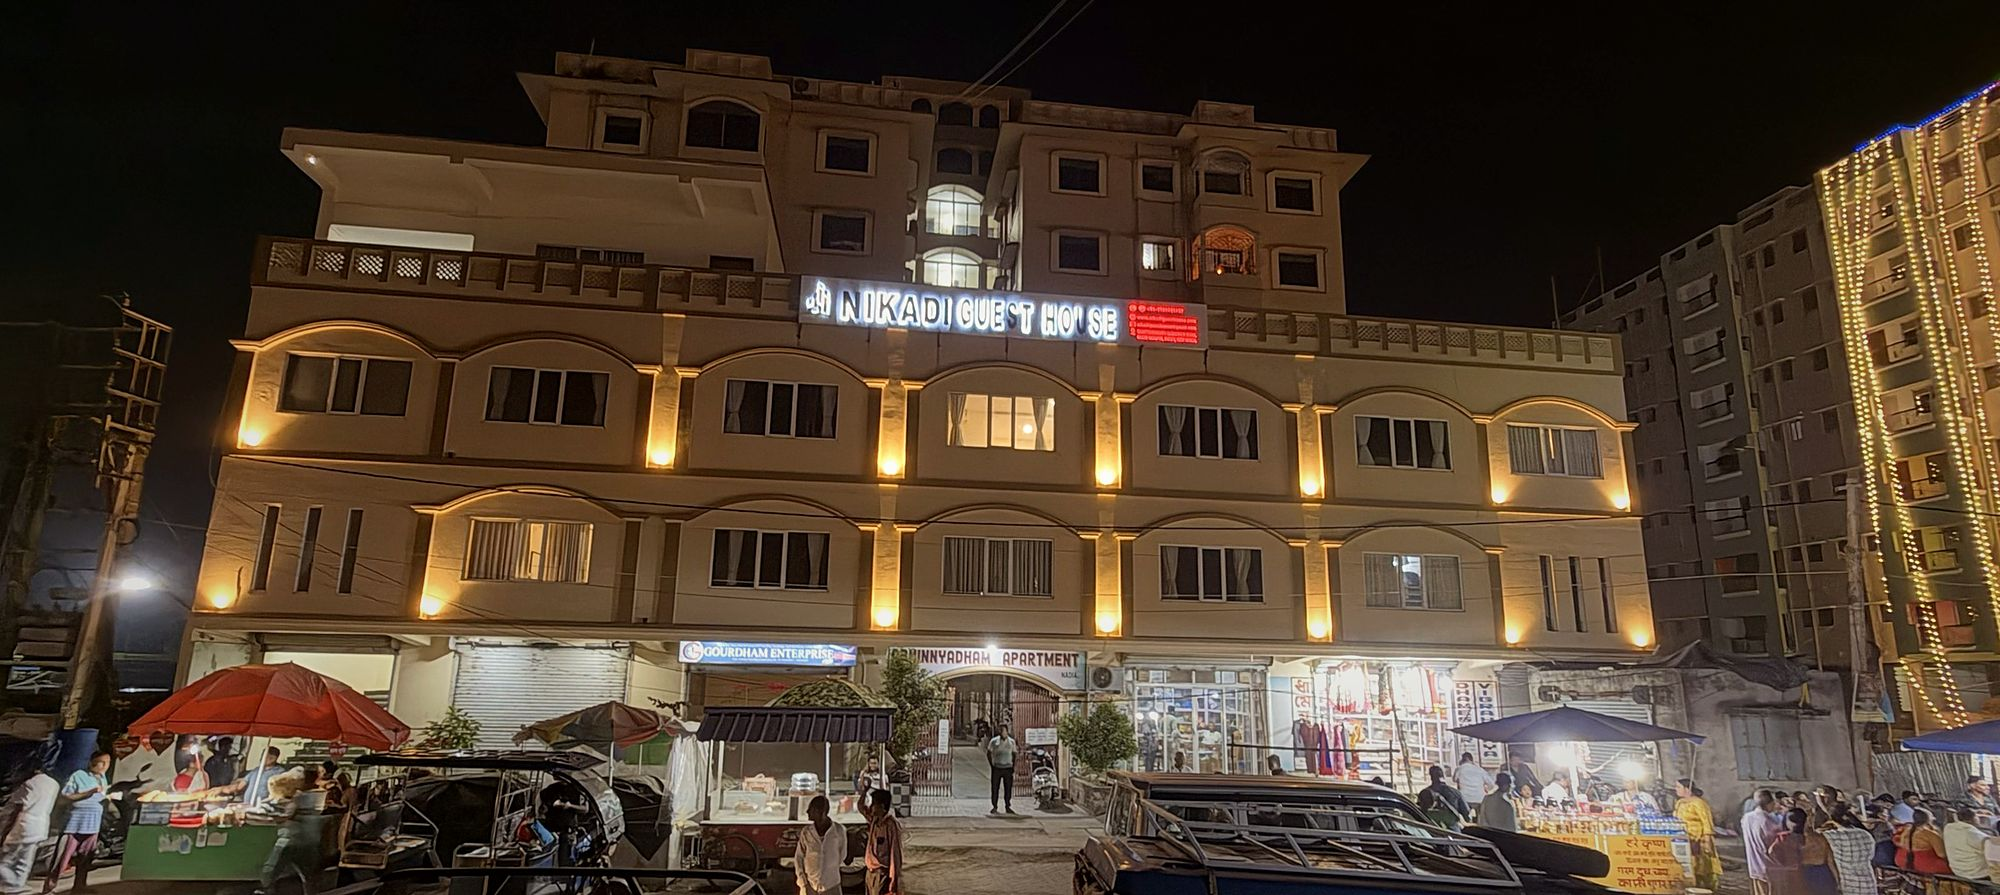
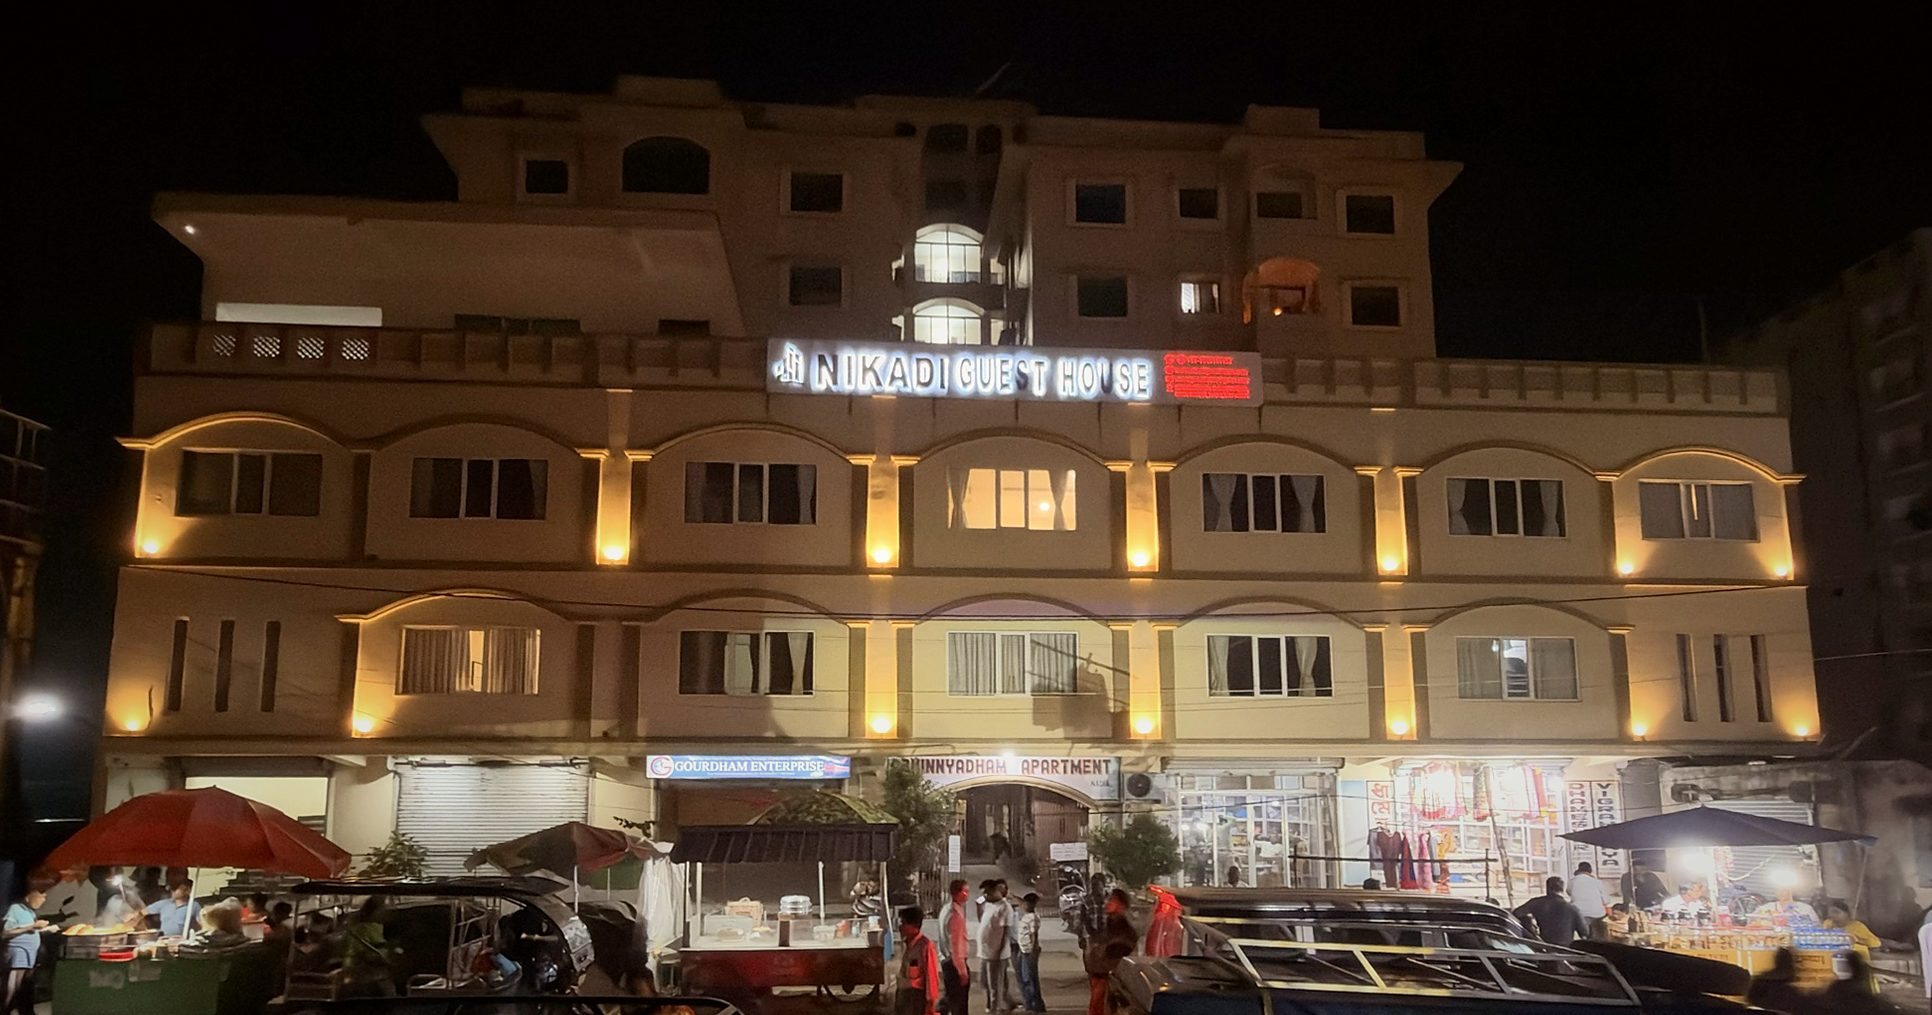
Straighten building photos, remove old room photos
- Perspective-corrected night photos taken from the middle of the road
- Hero: building beside the headline on computers, above it on phones
- Remove old room photos (new ones coming); room cards text-only for now
- Gallery: front view, staircase, Sri Chaitanya Mahaprabhu, reception
- Find us: text beside the walk-up video, WhatsApp directions button

Claude-Session: https://claude.ai/code/session_016eXoLK9YKQ6yvtgJFeLKt2

diff --git a/index.html b/index.html
@@ -71,14 +71,25 @@ nav.main a:hover{color:var(--ink)}
 
 /* hero */
 .hero{position:relative;min-height:min(86vh,760px);display:flex;align-items:flex-end;overflow:hidden}
-.hero img.bg{position:absolute;inset:0;width:100%;height:100%;max-width:100%;object-fit:cover;object-position:50% 38%}
+.hero img.bg{position:absolute;inset:0;width:100%;height:100%;max-width:100%;object-fit:cover;object-position:50% 45%}
 .hero picture{position:absolute;inset:0}
-@media (max-width:700px){.hero .wrap{padding-top:230px}.hero img.bg{object-position:50% 30%}}
+
 .hero::after{content:"";position:absolute;inset:0;background:linear-gradient(180deg,rgba(20,17,15,.55) 0%,rgba(20,17,15,.35) 35%,rgba(20,17,15,.92) 82%,var(--bg) 100%)}
 .hero .wrap{position:relative;z-index:1;width:100%;padding-block:120px 40px}
 .hero h1{font-size:clamp(2.8rem,8vw,5.6rem);font-weight:500;max-width:12ch}
 .hero h1 em{font-style:italic;color:var(--gold-hi)}
 .hero .lede{margin-top:18px;max-width:40em;font-size:1.08rem;color:var(--ink);opacity:.9}
+/* computers: building on the right, headline on a dark field to its left */
+@media (min-width:1000px){
+  .hero img.bg{left:auto;right:0;width:72%;object-position:50% 50%}
+  .hero::after{background:linear-gradient(90deg,var(--bg) 27%,rgba(20,17,15,.8) 38%,rgba(20,17,15,.2) 62%,rgba(20,17,15,.1) 100%),linear-gradient(180deg,rgba(20,17,15,.35) 0%,transparent 30%,transparent 62%,var(--bg) 100%)}
+}
+/* phones: building on top, headline below it */
+@media (max-width:700px){
+  .hero .wrap{padding-top:310px}
+  .hero img.bg{height:60%;object-position:50% 20%}
+  .hero::after{background:linear-gradient(180deg,rgba(20,17,15,.25) 0%,rgba(20,17,15,.15) 30%,rgba(20,17,15,.85) 52%,var(--bg) 60%)}
+}
 
 /* booking bar */
 .book{margin-top:36px;background:rgba(27,23,20,.94);border:1px solid var(--line);border-top:2px solid var(--gold);display:grid;grid-template-columns:repeat(4,minmax(0,1fr)) auto;gap:0}
@@ -110,7 +121,9 @@ section.alt{background:var(--band)}
 
 /* rooms */
 .room{display:grid;grid-template-columns:1.15fr 1fr;gap:0;background:var(--panel);border:1px solid var(--line)}
-.room + .room{margin-top:28px}
+.room-grid{display:grid;grid-template-columns:repeat(2,minmax(0,1fr));gap:24px}
+@media (max-width:820px){.room-grid{grid-template-columns:1fr}}
+.room-grid .room{grid-template-columns:1fr}
 .room:nth-of-type(even) .ph{order:2}
 .room .ph{position:relative;min-height:340px}
 .room .ph img{position:absolute;inset:0;width:100%;height:100%;max-width:100%;object-fit:cover}
@@ -135,13 +148,13 @@ section.alt{background:var(--band)}
 
 /* gallery */
 .gal{display:grid;grid-template-columns:repeat(3,minmax(0,1fr));grid-auto-rows:240px;gap:10px}
-.gal figure,.views figure,.findus figure{margin:0;position:relative;overflow:hidden;background:var(--panel)}
-.gal figure:first-child{grid-column:span 2;grid-row:span 2}
-.gal img,.views img,.findus img{width:100%;height:100%;max-width:100%;object-fit:cover;display:block;transition:transform .6s ease}
+.gal figure,.views figure{margin:0;position:relative;overflow:hidden;background:var(--panel)}
+.gal figure:first-child{grid-column:1/-1;grid-row:span 2}
+.gal img,.views img{width:100%;height:100%;max-width:100%;object-fit:cover;display:block;transition:transform .6s ease}
 .zoom{cursor:zoom-in}
 .zoom:hover img{transform:scale(1.03)}
-.gal figcaption,.views figcaption,.findus figcaption{position:absolute;left:0;right:0;bottom:0;padding:30px 14px 10px;font-size:.72rem;letter-spacing:.16em;text-transform:uppercase;background:linear-gradient(transparent,rgba(20,17,15,.88));pointer-events:none}
-@media (max-width:720px){.gal{grid-template-columns:repeat(2,minmax(0,1fr));grid-auto-rows:auto}.gal figure{aspect-ratio:4/5}.gal figure:first-child{grid-column:1/-1;grid-row:auto;aspect-ratio:4/3}}
+.gal figcaption,.views figcaption{position:absolute;left:0;right:0;bottom:0;padding:30px 14px 10px;font-size:.72rem;letter-spacing:.16em;text-transform:uppercase;background:linear-gradient(transparent,rgba(20,17,15,.88));pointer-events:none}
+@media (max-width:720px){.gal{grid-template-columns:repeat(2,minmax(0,1fr));grid-auto-rows:auto}.gal figure{aspect-ratio:4/5}.gal figure:first-child{grid-column:1/-1;grid-row:auto;aspect-ratio:16/9}.gal figure:last-child{grid-column:1/-1;aspect-ratio:4/3}}
 
 /* views */
 .views{display:grid;grid-template-columns:1fr 1fr;gap:40px;align-items:stretch}
@@ -153,15 +166,14 @@ section.alt{background:var(--band)}
 @media (max-width:860px){.views{grid-template-columns:1fr;gap:28px}.v-main{min-height:0;aspect-ratio:4/5}}
 
 /* find us */
-.findus{display:grid;grid-template-columns:1fr 1.3fr 1fr;gap:10px;margin-top:48px}
-.findus figure{aspect-ratio:3/4}
-.findus figure.fu-wide{aspect-ratio:auto}
-.findus video{width:100%;height:100%;max-width:100%;object-fit:cover;display:block;background:#000}
-.findus .fu-video figcaption{top:0;bottom:auto;padding:10px 14px 30px;background:linear-gradient(rgba(20,17,15,.85),transparent)}
-.fu-head{margin-top:56px;display:grid;gap:8px}
-.fu-head h3{font-size:1.9rem}
+.findus{display:grid;grid-template-columns:1fr minmax(0,380px);gap:48px;align-items:center;margin-top:64px;padding-top:48px;border-top:1px solid var(--line)}
+.fu-head{display:grid;gap:14px;justify-items:start;max-width:34em}
+.fu-head h3{font-size:clamp(1.8rem,4vw,2.4rem)}
 .fu-head p{color:var(--muted)}
-@media (max-width:860px){.findus{grid-template-columns:1fr 1fr}.findus .fu-video{order:-1;grid-column:1/-1;aspect-ratio:9/14;max-height:80vh}.findus .fu-video video{object-fit:contain}}
+.findus figure{margin:0;position:relative;overflow:hidden;background:#000;aspect-ratio:9/16;max-height:680px;width:100%}
+.findus video{width:100%;height:100%;max-width:100%;object-fit:cover;display:block;background:#000}
+.findus .fu-video figcaption{position:absolute;left:0;right:0;top:0;padding:10px 14px 30px;font-size:.72rem;letter-spacing:.16em;text-transform:uppercase;background:linear-gradient(rgba(20,17,15,.85),transparent);pointer-events:none}
+@media (max-width:860px){.findus{grid-template-columns:1fr;gap:28px}.findus figure{max-width:420px;justify-self:center}}
 
 /* lightbox */
 [hidden]{display:none!important}
@@ -348,7 +360,7 @@ footer .brand b{font-size:1.2rem}
 </header>
 
 <section class="hero" id="home">
-  <picture><source media="(max-width:700px)" srcset="img/facade-night-tall.jpg"><img class="bg" src="img/facade-night.jpg" alt="Nikadi Guest House lit up at night, opposite ISKCON Gate No. 4 in Mayapur"></picture>
+  <picture><source media="(max-width:700px)" srcset="img/facade-night-phone.jpg"><img class="bg" src="img/facade-night.jpg" alt="Nikadi Guest House lit up at night, opposite ISKCON Gate No. 4 in Mayapur"></picture>
   <div class="wrap">
     <p class="kicker rule">Opposite ISKCON Gate No. 4</p>
     <h1 style="margin-top:18px">Rest well, <em>close to the temple</em></h1>
@@ -408,8 +420,8 @@ footer .brand b{font-size:1.2rem}
       <p>Each room has a 10 inch mattress, attached bathroom with geyser and western toilet, television, wardrobe and round-the-clock Wi-Fi.</p>
     </div>
 
+    <div class="room-grid">
     <article class="room">
-      <div class="ph"><img src="img/room-interior.jpg" alt="Deluxe Double room with wardrobe, desk and TV panel" loading="lazy" style="object-position:50% 55%"></div>
       <div class="tx">
         <p class="kicker">For couples</p>
         <h3>Deluxe Double</h3>
@@ -421,7 +433,6 @@ footer .brand b{font-size:1.2rem}
     </article>
 
     <article class="room">
-      <div class="ph"><img src="img/twin-side.jpg" alt="Deluxe Twin room with two beds and full-length curtains" loading="lazy" style="object-position:50% 70%"></div>
       <div class="tx">
         <p class="kicker">For friends and family</p>
         <h3>Deluxe Twin</h3>
@@ -431,6 +442,7 @@ footer .brand b{font-size:1.2rem}
         <a class="btn btn-line" href="#home" data-room="1">Book this room</a>
       </div>
     </article>
+    </div>
 
     <div class="times">
       <div><span>Check-in</span><b>11:00 AM</b></div>
@@ -444,17 +456,12 @@ footer .brand b{font-size:1.2rem}
     <div class="head">
       <p class="kicker rule">Gallery</p>
       <h2>Inside and around Nikadi</h2>
-      <p>Tap any photo to see it larger.</p>
+      <p>Tap any photo to see it larger. New room photos are coming soon.</p>
     </div>
     <div class="gal">
-      <figure class="zoom"><img src="img/twin-front.jpg" alt="Deluxe room with twin beds, white linen and warm cove lighting" loading="lazy" style="object-position:50% 65%"><figcaption>Deluxe room</figcaption></figure>
-      <figure class="zoom"><img src="img/facade-sign.jpg" alt="Nikadi Guest House building lit up at night" loading="lazy"><figcaption>Nikadi at night</figcaption></figure>
-      <figure class="zoom"><img src="img/bathroom.jpg" alt="Bathroom with geyser, vessel washbasin and western toilet" loading="lazy"><figcaption>Attached bathroom</figcaption></figure>
-      <figure class="zoom"><img src="img/room-interior.jpg" alt="Wardrobe, desk with drinking water and TV panel" loading="lazy" style="object-position:50% 60%"><figcaption>Wardrobe and desk</figcaption></figure>
+      <figure class="zoom"><img src="img/facade-front.jpg" alt="Front of Nikadi Guest House at night with the lit sign" loading="lazy"><figcaption>Nikadi Guest House at night</figcaption></figure>
       <figure class="zoom"><img src="img/stairs.jpg" alt="Marble staircase with a framed picture of Sri Chaitanya Mahaprabhu" loading="lazy"><figcaption>Entrance staircase</figcaption></figure>
       <figure class="zoom"><img src="img/mahaprabhu.jpg" alt="Framed picture of Sri Chaitanya Mahaprabhu at the entrance" loading="lazy" style="object-position:50% 40%"><figcaption>Sri Chaitanya Mahaprabhu</figcaption></figure>
-      <figure class="zoom"><img src="img/twin-side.jpg" alt="Beds with folded towels and lavender runner" loading="lazy"><figcaption>Fresh linen</figcaption></figure>
-      <figure class="zoom"><img src="img/facade-festival.jpg" alt="Nikadi Guest House at night beside a building decorated with festival lights" loading="lazy"><figcaption>Festival evenings</figcaption></figure>
       <figure class="zoom"><img src="img/reception.jpg" alt="Nikadi Guest House reception sign at the entrance" loading="lazy"><figcaption>Reception</figcaption></figure>
     </div>
   </div>
@@ -608,15 +615,14 @@ footer .brand b{font-size:1.2rem}
         <div><a class="btn btn-line" href="https://www.google.com/maps/search/?api=1&query=ISKCON+Gate+No+4+Namahatta+Bhavan+Mayapur" target="_blank" rel="noopener">Open in Google Maps</a></div>
       </div>
     </div>
-    <div class="fu-head">
-      <p class="kicker">How to find us</p>
-      <h3>Look for the lit sign opposite Gate No. 4</h3>
-      <p>Our reception is at street level, with the NIKADI GUEST HOUSE sign above. Watch the short walk-up video to see the way in.</p>
-    </div>
     <div class="findus">
-      <figure class="zoom"><img src="img/facade-night-tall.jpg" alt="Nikadi Guest House building at night from the street" loading="lazy" style="object-position:50% 45%"><figcaption>The building from the road</figcaption></figure>
+      <div class="fu-head">
+        <p class="kicker">How to find us</p>
+        <h3>Look for the lit sign opposite Gate No. 4</h3>
+        <p>Our reception is at street level, under the NIKADI GUEST HOUSE sign on Bhaktisiddhanta Saraswati Marg. Watch the short walk-up video to see the way in.</p>
+        <a class="btn btn-line" href="https://wa.me/917501101137?text=Hare%20Krishna!%20I%20am%20on%20my%20way%20to%20Nikadi%20Guest%20House.%20Please%20guide%20me." target="_blank" rel="noopener">Ask for directions on WhatsApp</a>
+      </div>
       <figure class="fu-video"><video controls preload="metadata" playsinline muted poster="img/find-us-poster.jpg"><source src="img/find-us.mp4" type="video/mp4"></video><figcaption>Walk-up video · 30 sec</figcaption></figure>
-      <figure class="zoom"><img src="img/reception.jpg" alt="Reception entrance with the Nikadi sign and arrow" loading="lazy"><figcaption>Reception entrance</figcaption></figure>
     </div>
   </div>
 </section>
